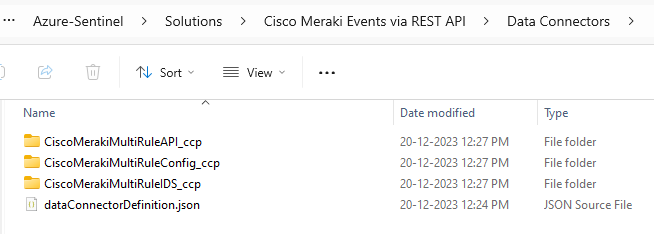
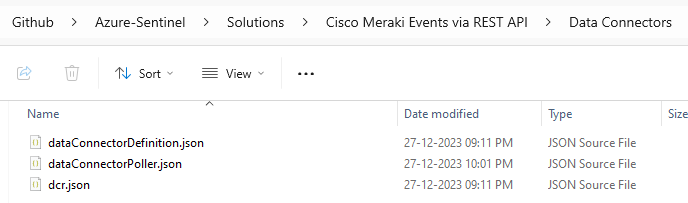
updated readme file and screenshots

diff --git a/Tools/Create-Azure-Sentinel-Solution/V3/CCP_README.md b/Tools/Create-Azure-Sentinel-Solution/V3/CCP_README.md
@@ -13,29 +13,47 @@ Every CCP connector will have 4 building blocks and should be specified in seque
 1. In Data input file under Azure-Sentinel/Solutions, open the solution you want to add a CCP connector.
 2. Open data input file and under "Data Connectors" array object add a path to new dataConnectorDefinition file.
 3. File name to dataConnectorDefinition should be meaningful and recommended to have a suffix "Definition" attached to the name at the end e.g. dataConnectorDefinition.json.
-4. Navigate to your "Solutions/<yourSolutionName>/Data Connectors" folder and create a new folder for ccp suffix at the end e.g: DataConnectorDefinitionName_ccp".
+4. Navigate to your "Solutions/*yourSolutionName*/Data Connectors" folder and create a new folder for ccp suffix at the end e.g: DataConnectorDefinitionName_ccp".
 5. Once a folder for CCP is created then add/create 4 files dataConnectorDefinition.json, dataPoller.json, DCR.json and table.json. Here table.json file is optional. Also, you can specific a different naming to the files but having a suffix of "Definition", "Poller", "DCR", "Table" in the file name at the end will be easy to correlate. Below is an example folder file structure for CCP.
 
     ![Alt text](ccp-folder-structure.png)
 
-6. There can be only 1 data definition file per CCP connector. If you have multiple CCP connectors then create multiple data connector definition files and specify the file paths in the data folder input file under "Data Connectors" array. There is no need to specify other file paths for poller, dcr or tables. 
+6. There can be only 1 data definition file per CCP connector. If you have multiple CCP connectors then create multiple data connector definition files and specify the file paths in the data folder input file under "Data Connectors" array. There is no need to specify other file paths for poller, dcr or tables in data input file. 
 7. dataConnectorDefinition file is the starting point for any CCP connector and this file path should only be specified in data folder input file under "Data Connectors" array.
 
     ![Alt text](dataInputDataConnectorsArray.png)
 
 8. Mapping between dataConnectorDefinition and Poller file should present. Poller file mapping with DCR should be present. If mapping is not present and if present but mapping values are not correct then packaging will fail.
 
-    #### *<span style="color:blue">Note 1:</span> <span style="color:green">Each of this files depend on mapping with other files which is specified in "How to Use ?" section of this document. Eg: Data definition file should have a mapping with Data poller file. Data poller file should have a mapping with DCR file. DCR file should have a mapping with Tables file. Tables file is optional and so, if there is no mapping from DCR with table then remove the "outputStream" property from "DCR" file. You can skip removing property "outputStream" from DCR file, if it is a Standard table eg: "outputStream"="Microsoft-ASimNetworkSessionLogs" in DCR is a Standard table and there is no need to add table file.</span>*
+    #### *<span style="color:blue">Note:</span> <span style="color:green">Each of this files depend on mapping with other files which is specified in "How to Use ?" section of this document. Eg: Data definition file should have a mapping with Data poller file. Data poller file should have a mapping with DCR file. DCR file should have a mapping with Tables file. Tables file is optional and so, if there is no mapping from DCR with table then remove the "outputStream" property from "DCR" file. You can skip removing property "outputStream" from DCR file, if it is a Standard table eg: "outputStream"="Microsoft-ASimNetworkSessionLogs" in DCR is a Standard table and there is no need to add table file.</span>*
 
-    #### *<span style="color:blue">Note 2:</span> <span style="color:green"> If you have only 1 data definition file and multiple poller, DCR files then create only 1 data definition file. Keep the single data definition file at the root of the "Data Connectors" folder i.e. keep data definition file inside of "Data Connectors" folder and keep each of the poller, DCR and/or table files in a separate folders as shown in below screenshot.</span>*
+    ### Working with Single Data Definition having multiple Data Connector Poller in single file and multiple DCR in single file:
+
+    If you have only 1 data definition file and want to use it with multiple data connector pollers, DCR's files then create only 1 data definition file. Keep the single data definition file at the root of the "Data Connectors" folder i.e. keep data definition file inside of "Data Connectors" folder and keep each of the poller, DCR and/or table files in a separate folders as shown in below screenshot.
 
       <h4><span style="color:purple"> Folder and file structure for Single data definition file with multiple folders containing poller and DCR: </span> </h4>
 
       ![Alt text](singleDefinitionMultiplePollerDCR.png)
 
-      <h4><span style="color:purple">  Single data definition file with multiple folders containing poller and DCR: Contents in each of the below given folders files are different but has same single data definition file. </span></h4> 
 
-      ![Single data definition file with multiple folders containing poller and DCR](multiplePollerDCR.png)
+      <h4><span style="color:purple"> Below is the single data definition file which is similar to that of normal CCP connector which contains only one data definition file, data connector poller file, dcr file and/or table file. </span></h4> 
+
+      ![Alt text](singleDefinitionForMultiplePoller.png)
+
+      <h4><span style="color:purple"> This data connector poller file differs with normal CCP connector by having multiple JSON object in an array as shown below i.e. multiple data connector pollers are specified in a single file. </span></h4> 
+
+      ![Alt text](multiplePollerStructure.png)
+
+      <h4><span style="color:purple"> Below is the content for multiple data connector poller object specified in a single file inside of an array. For single data definition having multiple data connector poller, green color highlighted property value should be unique i.e "name" property should be unique and should not match this name value with other data connector poller name property in this file i.e. "name" = "CiscoMerakiAPIRequest" should be unique. But "connectorDefinitionName" value for all of the data connector poller files should be SAME as shown below as we are using only 1 data definition file.</span></h4> 
+
+      ![Alt text](multiplePollerInSingleFile.png)
+
+
+      <h4><span style="color:purple">  Each of the data connector poller files in previous step should have a corresponding DCR file object as shown below. In data connector poller file, "streamName" property value should match with that of DCR file object "streams" property under "dataFlows" array as shown below. Under "dataFlows" specify different objects for your streams. </span></h4> 
+
+      ![Alt text](multiplePollerDCRStructure.png)
+
+</br>
 
 9. Details for each of the file information is specified below:</br>
   **a. Data Connector Definition File:**
